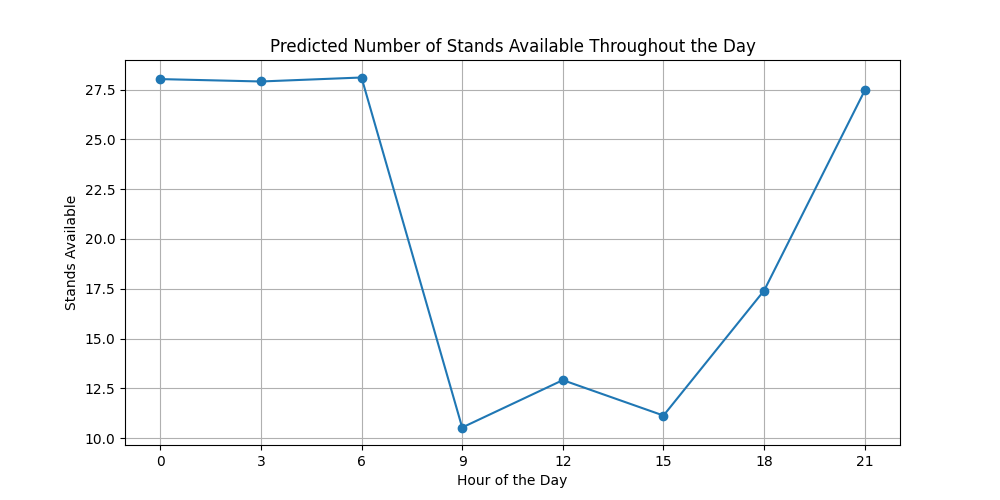
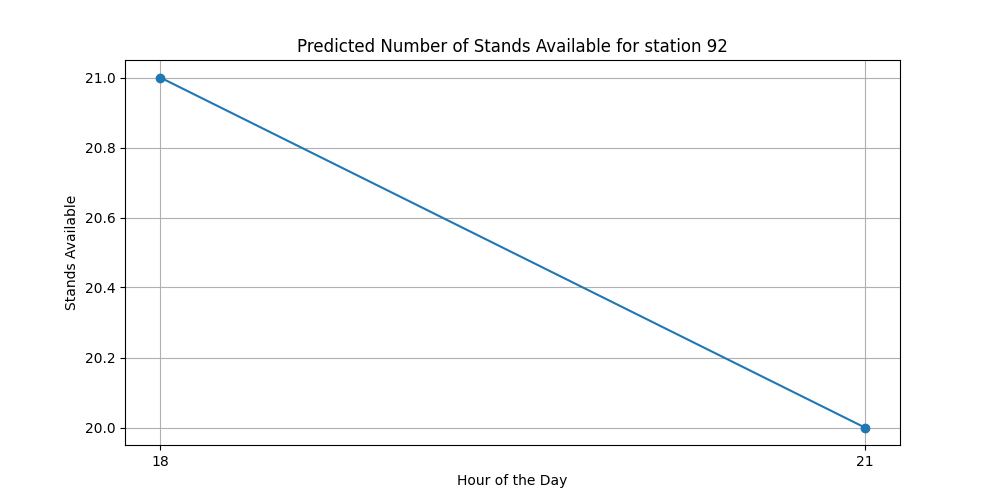
Changed sidebar functionality. Plots automatically display after route planner execution

diff --git a/flask_bikes/templates/map.html b/flask_bikes/templates/map.html
@@ -41,15 +41,17 @@
                 </div>
             </div>
 
-            <input type="date" placeholder="Choose a date" id="dateInput" name="dateInput" style="margin-top: 10px; margin-bottom: 10px; padding: 6px; border-radius: 4px; border: 1px solid #ccc;">
-            
-            <div id="legend">
-                <span class="legend-color historical-color"></span> Historical 
-                <span class="legend-color predictive-color"></span> Predictive 
-            </div>
+            <div id="JourneyButtons">
+                <input type="date" placeholder="Choose a date" id="dateInput" name="dateInput" style="margin-top: 10px; margin-bottom: 10px; padding: 6px; border-radius: 4px; border: 1px solid #ccc;">
+                
+                <div id="legend">
+                    <span class="legend-color historical-color"></span> Historical 
+                    <span class="legend-color predictive-color"></span> Predictive 
+                </div>
 
-            <button type="button" id="showHistoricalData" class="collapse-btn" style="margin-top: 20px;">Show Historical Data</button>
-            <button type="button" id="showPredictiveData" class="collapse-btn" style="margin-top: 20px;">Show Predictive Data</button>
+                <button type="button" id="showHistoricalData" class="collapse-btn" style="margin-top: 20px;">Show Historical Data</button>
+                <button type="button" id="showPredictiveData" class="collapse-btn" style="margin-top: 20px;">Show Predictive Data</button>
+            </div>
         </form>
 
         <div id="dataPlot" style="margin-top: 20px;">
@@ -72,8 +74,6 @@
         <input type="text" id="searchbox" name="searchbox" size="35"/>
     </div>
 </div>
-
-
 
 <script src="../static/js/sidebar.js" type="text/javascript"></script>
 <script src="../static/js/forecast.js" type="text/javascript"></script>
@@ -164,13 +164,12 @@
                         map,
                         position: coords,
                         title: text,
-                        //label: { color: '#00aaff', fontWeight: 'bold', fontSize: '14px', text: text.split(',')[0] }
         });
         let latLng = searchboxmarker.position; // returns LatLng object
         map.panTo(latLng);
-        autocomplete1.set("place", searchboxautocomplete.getPlace())
-        let place = searchboxautocomplete.getPlace()
-        input1.value =  place.name
+        autocomplete1.set("place", searchboxautocomplete.getPlace());
+        let place = searchboxautocomplete.getPlace();
+        input1.value =  place.name;
         
         updateSidebarContent(null);
     });
@@ -186,7 +185,7 @@
             });
             // Add click listener to the marker
             marker.addListener("click", () => {
-                toggleHighlight(marker, station);
+                toggleHighlight(marker);
                 let sidebarwidth = document.getElementById('sidebar').style.width;
                 if (marker.content.classList.contains("highlight")) {
                     updateSidebarContent(station);
@@ -204,19 +203,27 @@
     }
 }
 
+function closeInfoWindows() {
+    markers.forEach(marker => {
+        if (marker.content.classList.contains("highlight")) {
+            toggleHighlight(marker);
+    }   
+    });              
+}
+
 function markerListener() {
     if (autocomplete1.getPlace()!=null && autocomplete2.getPlace()!=null) {
             if (searchboxmarker) {
                 searchboxmarker.setMap(null);
             }
+            closeInfoWindows()
             handleInputs();
         } else {
             clearMarkers();
         }
 }
 
-
-function toggleHighlight(markerView, station) {
+function toggleHighlight(markerView) {
     // Close highlights for the clicked marker
     if (markerView.content.classList.contains("highlight")) {
         markerView.content.classList.remove("highlight");
@@ -401,6 +408,12 @@ async function drawRoute(start,end,datetime) {
             });
     var closestToStart = findclosest(start,"PICKUP");
     var closestToEnd = findclosest(end,"SETDOWN");
+
+    startStation = closestToStart.content.getElementsByClassName("number")[0].textContent.replace(/\D/g, "");
+    endStation = closestToEnd.content.getElementsByClassName("number")[0].textContent.replace(/\D/g, "");
+    
+    displayPlot('predictive',startStation,1);
+    displayPlot('predictive',endStation,2);
 
     let leg1,leg2,leg3;
     leg1 = await fetchClosestRoute(markerJSON(startMarker),markerJSON(closestToStart),datetime,"WALK");

diff --git a/flask_bikes/static/js/sidebar.js b/flask_bikes/static/js/sidebar.js
@@ -1,9 +1,13 @@
 function updateSidebarContent(station) {
 
-    if (station!=null) {
-        var stationNumber = document.getElementById("stationNumber");
+    var stationNumber = document.getElementById("stationNumber");
+    if (station!=null) {     
         stationNumber.textContent = "Station number: " + station.number;
-    } 
+        document.getElementById("JourneyButtons").style.display = "block";
+    } else {
+        stationNumber.textContent = "";
+        document.getElementById("JourneyButtons").style.display = "none";
+    }
     var dateInput = document.getElementById("dateInput");
     dateInput.value = ""; 
 
@@ -55,10 +59,21 @@ document.getElementById('showPredictiveData').addEventListener('click', function
 });
 
 
-function displayPlot(type) {
-    const date = document.getElementById('dateInput').value;
-    const stationNumber = document.getElementById('stationNumber').innerText.split(': ')[1];
+function displayPlot(type,station=null,mode=0) {
+    var date;
+    var stationNumber;
+    if (station==null) {
+        stationNumber = document.getElementById('stationNumber').innerText.split(': ')[1];
+        date = document.getElementById('dateInput').value;
+    } else {
+        stationNumber = station
+        date = new Date();
+        date = date.getFullYear() + "-" + (date.getMonth()+1) + "-" + date.getDate();
+    }
 
+    console.log(stationNumber);
+    console.log(date);  
+    
     if (!date) {
         alert("Please select a date.");
         return;
@@ -68,7 +83,7 @@ function displayPlot(type) {
     params.append('date', date);
 
     if (type == 'predictive'){
-        fetch(`/predictive_plot/${stationNumber}`, {
+        fetch(`/predictive_plot/${stationNumber}/${mode}`, {
             method: 'POST',
             headers: {
                 'Content-Type': 'application/x-www-form-urlencoded',
@@ -91,13 +106,24 @@ function displayPlot(type) {
             document.getElementById('plotHist2').style.display = 'none';
             
             const plotImage = document.getElementById('plotImage');
-            const timestamp = new Date().getTime(); // Get current timestamp
-            plotImage.src = `/static/images/bikes_predictions_plot.png?${timestamp}`; // Append timestamp to the image URL to make update the img
-            plotImage.style.display = 'block';
-    
             const plotImage2 = document.getElementById('plotImage2');
-            plotImage2.src = `/static/images/stands_predictions_plot.png?${timestamp}`; // Append timestamp to the image URL to make update the img
-            plotImage2.style.display = 'block';
+            const timestamp = new Date().getTime(); // Get current timestamp
+            if (mode==0) {
+                plotImage.src = `/static/images/bikes_predictions_plot.png?${timestamp}`; // Append timestamp to the image URL to make update the img
+                plotImage.style.display = 'block';
+            
+                plotImage2.src = `/static/images/stands_predictions_plot.png?${timestamp}`; // Append timestamp to the image URL to make update the img
+                plotImage2.style.display = 'block';
+            } else {
+                if (mode==1) {
+                    plotImage.src = `/static/images/bikes_predictions_plot.png?${timestamp}`; // Append timestamp to the image URL to make update the img
+                    plotImage.style.display = 'block';
+                } else if (mode==2) {
+                    plotImage2.src = `/static/images/stands_predictions_plot.png?${timestamp}`; // Append timestamp to the image URL to make update the img
+                    plotImage2.style.display = 'block';
+                }
+            }
+            
 
         })
         .catch(error => {

diff --git a/flask_bikes/static/css/map.css b/flask_bikes/static/css/map.css
@@ -37,7 +37,7 @@ body {
   border-radius: 20px;
 }
 .number {
-  display:none;
+  display: none;
 }
 .opencircle, .closedcircle {
     align-items: center;

diff --git a/flask_bikes/app.py b/flask_bikes/app.py
@@ -66,10 +66,10 @@ def map_weather_conditions(description):
         'thunderstorm_with_light_rain': 1 if 'thunderstorm with light rain' in description else 0,
     }
 
-def generate_plot(predictions, hours, model_type):
+def generate_plot(predictions, hours, model_type, station):
     plt.figure(figsize=(10, 5))
-    plt.plot(hours, predictions, marker='o')
-    plt.title(f'Predicted Number of {model_type.capitalize()} Available Throughout the Day')
+    plt.plot(hours, np.around(predictions), marker='o')
+    plt.title(f'Predicted Number of {model_type.capitalize()} Available for station {station}')
     plt.xlabel('Hour of the Day')
     plt.ylabel(f'{model_type.capitalize()} Available')
     plt.grid(True)
@@ -141,8 +141,8 @@ def historical_data(station_number):
         current_app.logger.error(f'Unexpected error: {e}', exc_info=True)
         return jsonify({'error': 'Internal server error'}), 500
     
-@app.route('/predictive_plot/<int:station_number>', methods=['POST'])
-def predictive_plot(station_number):
+@app.route('/predictive_plot/<int:station_number>/<int:mode>', methods=['POST'])
+def predictive_plot(station_number,mode):
     date = request.form.get('date')
     if not date:
         return jsonify({'error': 'Date not provided'}), 400
@@ -160,9 +160,13 @@ def predictive_plot(station_number):
             with open(filepath, 'rb') as handle:
                 models[model_type] = pickle.load(handle)
 
-
     results = {}
     for model_type, model in models.items():
+        if mode == 1 and model_type=="stands":
+            continue
+        elif mode == 2 and model_type=="bikes":
+            continue
+        
         if model is None:
             print(f"No model found for {model_type} at station {station_number}")
             continue
@@ -201,7 +205,7 @@ def predictive_plot(station_number):
             forecast_hours = [current_hour + i * 3 for i in range(len(predictions))]
 
 
-        plot_path = generate_plot(predictions, forecast_hours, model_type)
+        plot_path = generate_plot(predictions, forecast_hours, model_type, station_number)
         results[model_type] = plot_path
         handle.close()
     del models # Realsing the models from memory
